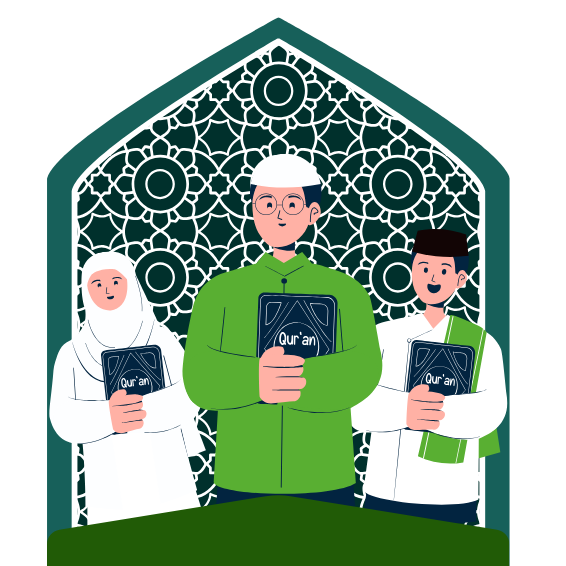
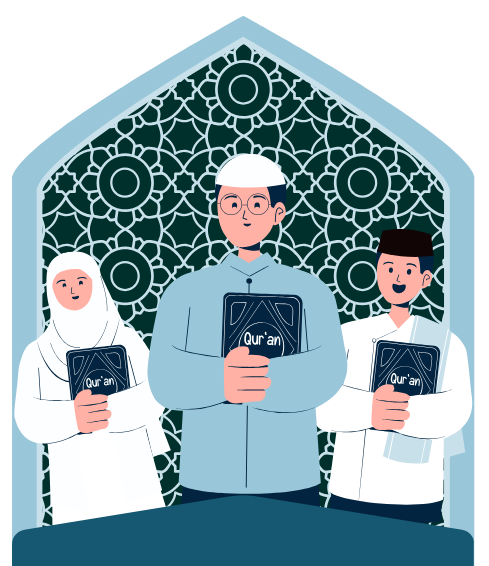
Change Collour

diff --git a/src/application/Home/HomePonpes.tsx b/src/application/Home/HomePonpes.tsx
@@ -13,7 +13,7 @@ const clients = [
 
 const HomeFeature = () => {
   return (
-    <div className="mt-8 rounded-4xl bg-green-900 dark:bg-neutral-800 py-32 sm:mt-8 md:py-32">
+    <div className="mt-8 rounded-4xl bg-teal-900 dark:bg-neutral-800 py-32 sm:mt-8 md:py-32">
       <Container >
         <FadeIn className="flex items-center gap-x-8">
           <h2 className="text-center font-display text-4xl font-semibold tracking-wider text-white sm:text-left">

diff --git a/src/styles/globals.css b/src/styles/globals.css
@@ -106,7 +106,7 @@
 }
 
 .text-gradient_indigo-purple {
-  background: linear-gradient(90deg, #0b8b50 0%, rgba(235, 200, 2, 0.993) 100%);
+  background: linear-gradient(90deg, #00302C 0%, rgba(235, 200, 2, 0.993) 100%);
   /* background: linear-gradient(83.21deg,#3245ff 0%,#bc52ee 100%); */
   -webkit-background-clip: text;
   -webkit-text-fill-color: transparent;
